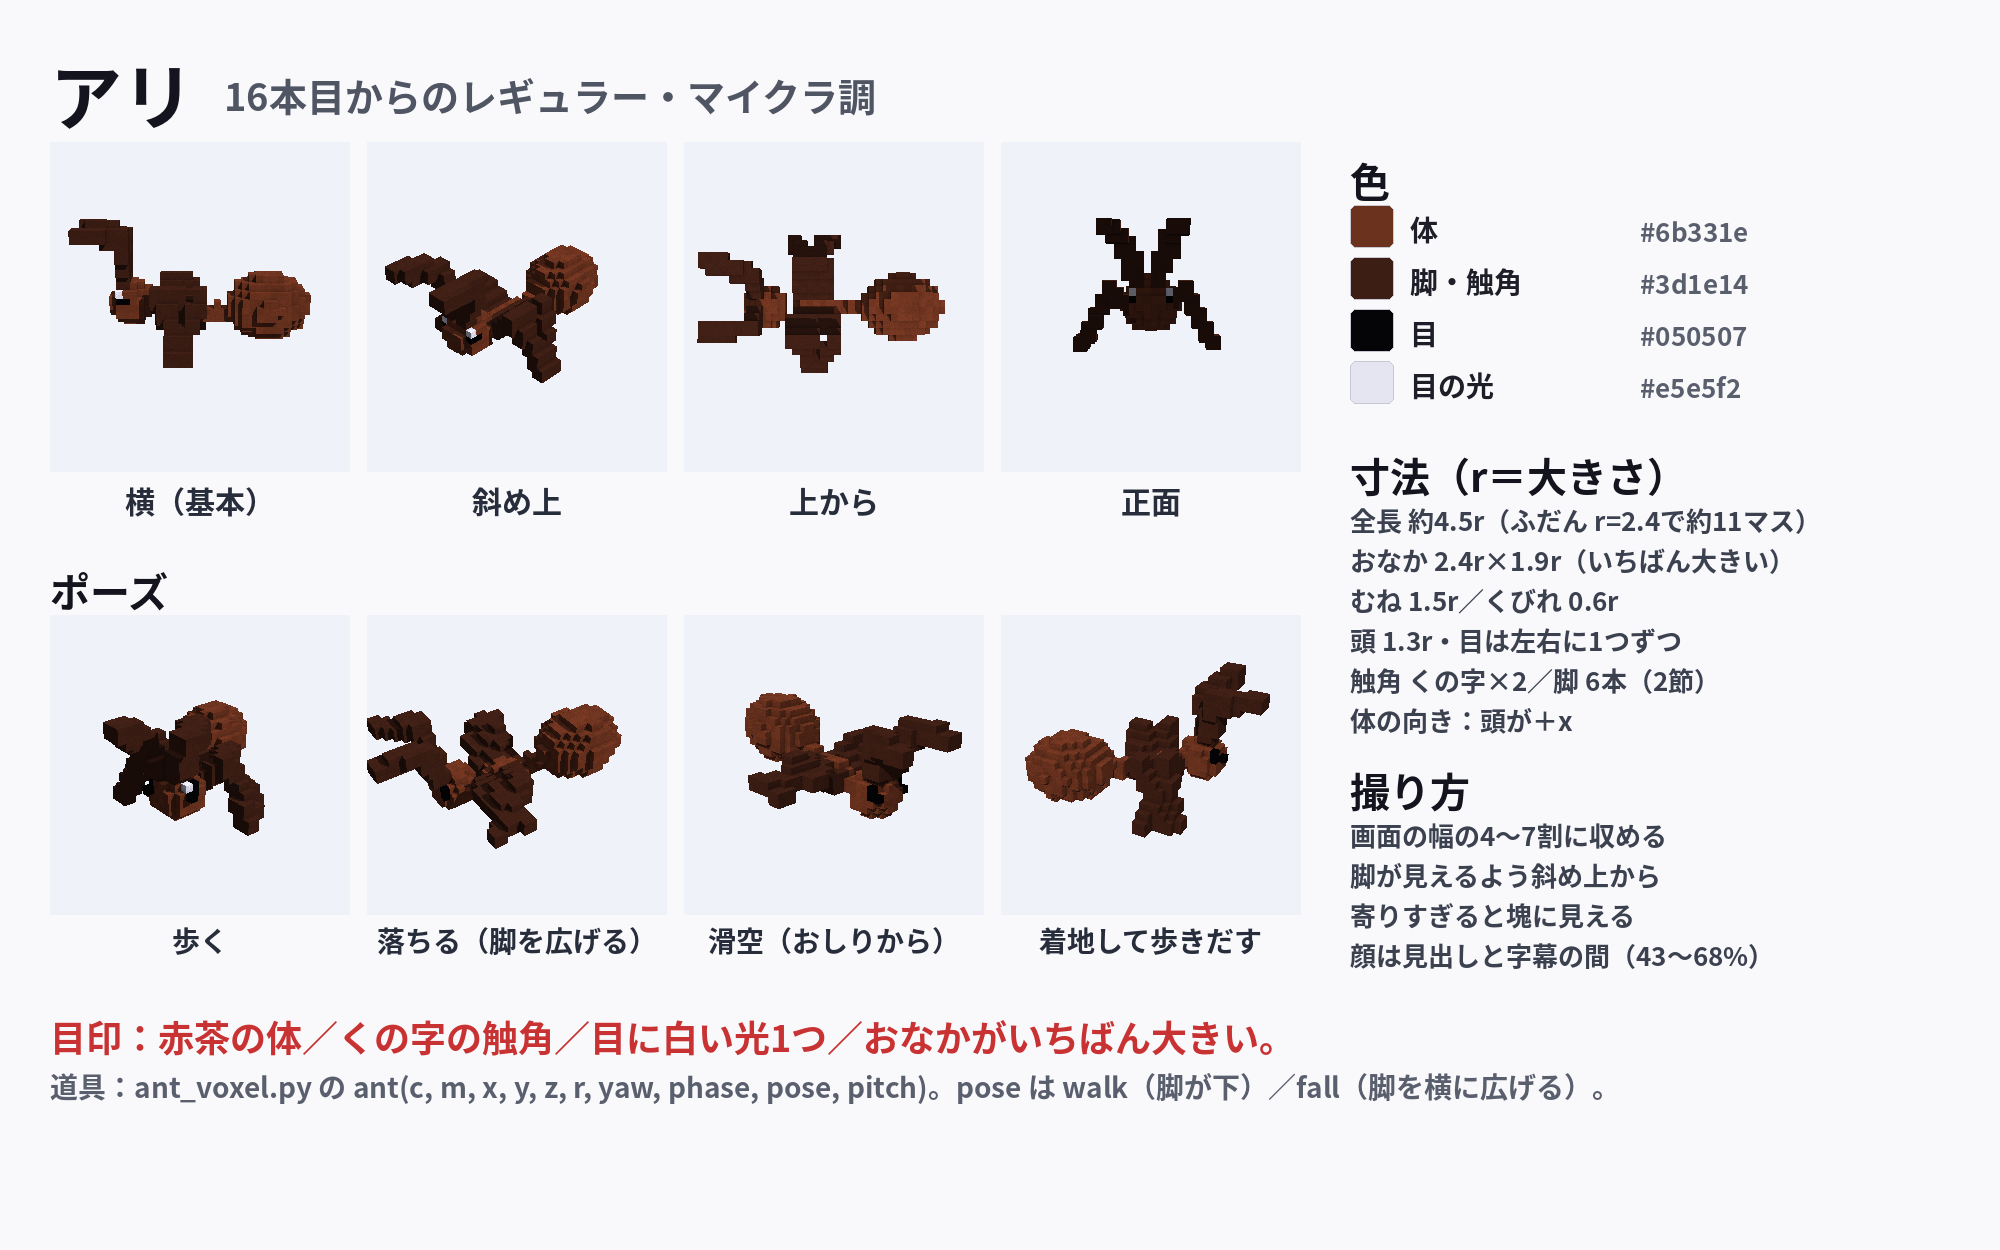
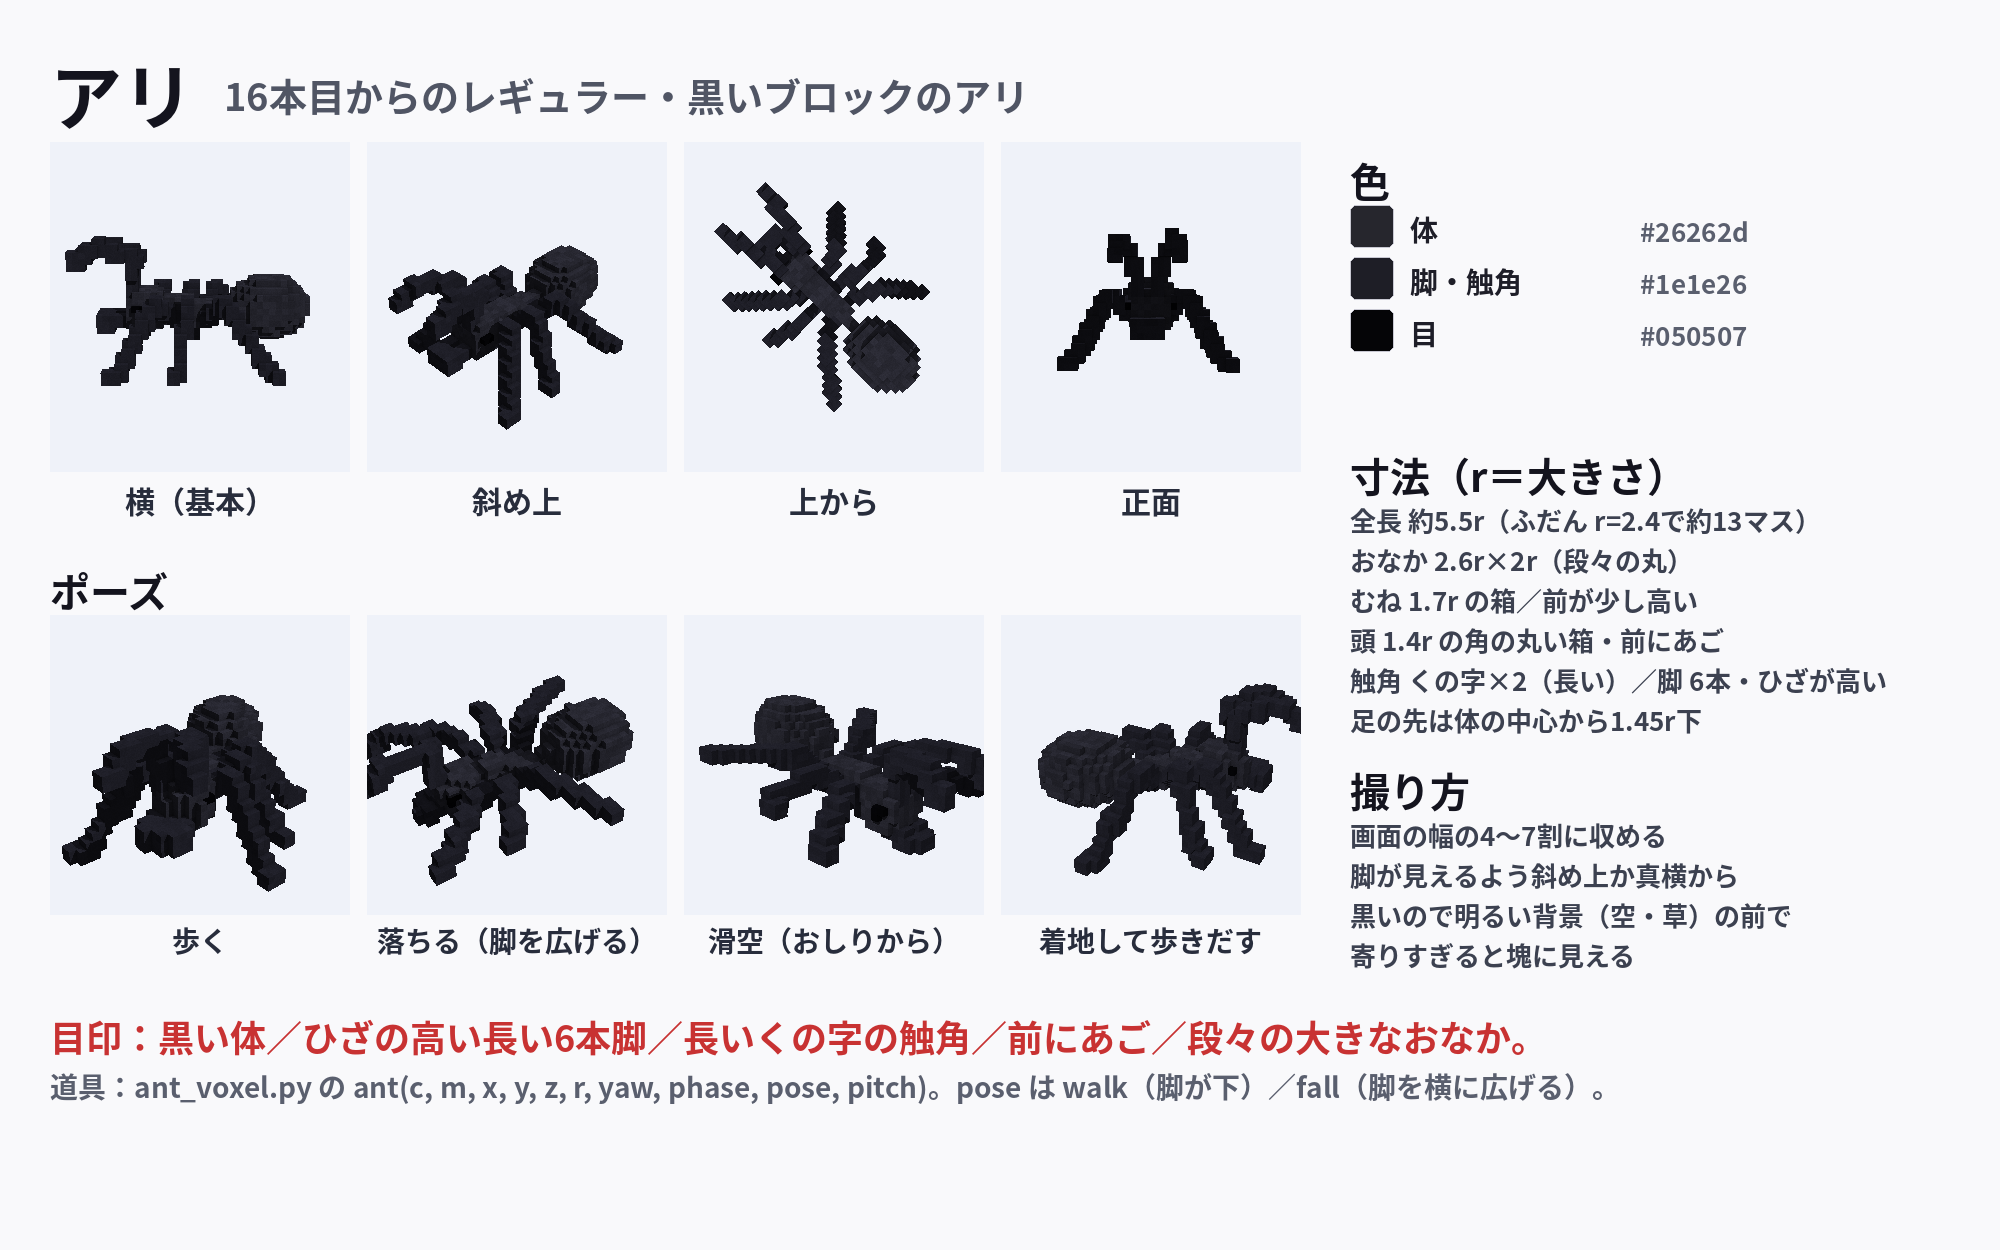
アリのデザインを黒いブロックのアリ（ゆうきの参考画像）に変更
Claude-Session: https://claude.ai/code/session_01CbnLWF7WosX2KU9zsW2tgh

diff --git a/moshimo_tools/ant_voxel.py b/moshimo_tools/ant_voxel.py
@@ -15,64 +15,70 @@ W, H, FPS, RS = 1080, 1920, 30, 3
 CLIPS = [4.4, 4.4, 5.6, 8.4, 5.7, 5.3, 6.7, 5.1]
 GY = SV.GY
 lerp, snap, ground = C2.lerp, C2.snap, C2.ground
-BODY = (0.42, 0.2, 0.12)      # アリの体（赤茶）
-LEG = (0.24, 0.12, 0.08)
+BODY = (0.15, 0.15, 0.18)     # アリの体（黒・少し青みのグレー）
+LEG = (0.12, 0.12, 0.15)
+EYE = (0.02, 0.02, 0.03)
+FOOT = 1.45                   # 足の先は体の中心から 1.45r 下（ひざが高い）
 
 
-def _set(c, m, X, Y, Z, col, var=0.06):
+def _set(c, m, X, Y, Z, col, var=0.12):
     ok = (X >= 0) & (Y >= 0) & (Z >= 0) & (X < c.shape[0]) & (Y < c.shape[1]) & (Z < c.shape[2])
     X, Y, Z = X[ok], Y[ok], Z[ok]
     c[X, Y, Z] = (C(*col) * (1 - var + 2 * var * np.random.default_rng(len(X)).random((len(X), 1)))).astype(f32); m[X, Y, Z] = 1
 
 
 def ant(c, m, cx, cy, cz, r, yaw=0.0, phase=0.0, pose="walk", pitch=0.0):
-    """アリ。体の向きはローカルのx（頭が+x）。r=大きさ（全長は約4.5r）。pose: walk（脚が下）/ fall（脚を横に広げる）"""
+    """黒いブロックのアリ（参考画像の形）。頭が+x。cy は体の中心（足の先は cy-1.45r）。
+    pose: walk（6本脚で立つ）/ fall（脚を横に広げる）"""
     ca, sa = math.cos(yaw), math.sin(yaw)
     cp, sp = math.cos(pitch), math.sin(pitch)
 
-    def W_(lx, ly, lz):            # ローカル→ワールド（pitch はxy面の傾き、yaw はy軸まわり）
+    def W_(lx, ly, lz):
         lx, ly = lx * cp - ly * sp, lx * sp + ly * cp
         return cx + lx * ca - lz * sa, cy + ly, cz + lx * sa + lz * ca
 
-    def ell(ox, oy, oz, rx, ry, rz, col):
-        R_ = max(rx, ry, rz) + 1
+    def blob(ox, oy, oz, rx, ry, rz, col, pw=2.0):
+        """pw=2 で楕円、4 で角の丸い箱"""
+        R_ = max(rx, ry, rz) * 1.2 + 1
         px, py, pz = W_(ox, oy, oz)
         xs, ys, zs = np.meshgrid(np.arange(int(px - R_), int(px + R_) + 2), np.arange(int(py - R_), int(py + R_) + 2),
                                  np.arange(int(pz - R_), int(pz + R_) + 2), indexing='ij')
         dx, dy, dz = xs + 0.5 - px, ys + 0.5 - py, zs + 0.5 - pz
         lx = dx * ca + dz * sa; lz = -dx * sa + dz * ca; ly = dy
         lx, ly = lx * cp + ly * sp, -lx * sp + ly * cp
-        ins = (lx / rx) ** 2 + (ly / ry) ** 2 + (lz / rz) ** 2 < 1
+        ins = np.abs(lx / rx) ** pw + np.abs(ly / ry) ** pw + np.abs(lz / rz) ** pw < 1
         _set(c, m, xs[ins], ys[ins], zs[ins], col)
 
-    def line(p0, p1, col, th):
-        n = int(max(2, math.dist(p0, p1) * 2))
-        for i in range(n + 1):
-            k = i / n
-            x, y, z = W_(*[a + (b - a) * k for a, b in zip(p0, p1)])
-            h = max(0.5, th / 2)
-            X, Y, Z = np.meshgrid(np.arange(int(x - h + 0.5), int(x + h + 0.5) + 1), np.arange(int(y - h + 0.5), int(y + h + 0.5) + 1),
-                                  np.arange(int(z - h + 0.5), int(z + h + 0.5) + 1), indexing='ij')
-            _set(c, m, X.ravel(), Y.ravel(), Z.ravel(), col, 0.03)
+    def line(pts, col, th):
+        for p0, p1 in zip(pts[:-1], pts[1:]):
+            n = int(max(2, math.dist(p0, p1) * 2))
+            for i in range(n + 1):
+                k = i / n
+                x, y, z = W_(*[a + (b - a) * k for a, b in zip(p0, p1)])
+                h = max(0.5, th / 2)
+                X, Y, Z = np.meshgrid(np.arange(int(x - h + 0.5), int(x + h + 0.5) + 1), np.arange(int(y - h + 0.5), int(y + h + 0.5) + 1),
+                                      np.arange(int(z - h + 0.5), int(z + h + 0.5) + 1), indexing='ij')
+                _set(c, m, X.ravel(), Y.ravel(), Z.ravel(), col, 0.08)
 
-    ell(-2.15 * r, 0.25 * r, 0, 1.2 * r, 0.95 * r, 0.95 * r, BODY)         # おなか
-    ell(-0.7 * r, 0.05 * r, 0, 0.3 * r, 0.32 * r, 0.25 * r, BODY)          # くびれ
-    ell(0.25 * r, 0.05 * r, 0, 0.75 * r, 0.42 * r, 0.42 * r, BODY)         # むね
-    ell(1.75 * r, 0.35 * r, 0, 0.65 * r, 0.62 * r, 0.68 * r, BODY)         # 頭
+    blob(-2.05 * r, 0.25 * r, 0, 1.3 * r, 1.0 * r, 1.05 * r, BODY, 2.2)         # おなか（段々の大きな丸）
+    blob(-0.75 * r, 0.05 * r, 0, 0.3 * r, 0.42 * r, 0.28 * r, BODY, 3.0)         # くびれのこぶ
+    blob(0.35 * r, 0.05 * r, 0, 0.85 * r, 0.42 * r, 0.42 * r, BODY, 4.0)         # むね（箱）
+    blob(0.85 * r, 0.25 * r, 0, 0.4 * r, 0.42 * r, 0.44 * r, BODY, 4.0)          # むねの前の盛り上がり
+    blob(1.95 * r, 0.15 * r, 0, 0.7 * r, 0.62 * r, 0.68 * r, BODY, 4.0)          # 頭（角の丸い箱）
     for s in (-1, 1):
-        ell(2.05 * r, 0.55 * r, s * 0.5 * r, 0.2 * r, 0.22 * r, 0.14 * r, (0.02, 0.02, 0.03))     # 目
-        ell(2.1 * r, 0.68 * r, s * 0.45 * r, 0.07 * r, 0.07 * r, 0.07 * r, (0.9, 0.9, 0.95))     # 目のハイライト
-        wig = 0.25 * r * math.sin(phase * 3 + s)
-        line((1.9 * r, 0.9 * r, s * 0.25 * r), (1.9 * r, 2.0 * r + wig, s * 0.7 * r), LEG, 0.28 * r)   # 触角（くの字）
-        line((1.9 * r, 2.0 * r + wig, s * 0.7 * r), (3.0 * r, 2.3 * r, s * 1.0 * r + wig), LEG, 0.26 * r)
-        for j, ox in enumerate((0.75, 0.3, -0.15)):
-            sw = 0.35 * r * math.sin(phase * 6 + j * 2.1 + (0 if s > 0 else math.pi))
+        blob(2.15 * r, 0.3 * r, s * 0.62 * r, 0.2 * r, 0.18 * r, 0.1 * r, EYE, 4.0)    # 目（小さな四角）
+        line([(2.55 * r, -0.25 * r, s * 0.32 * r), (3.15 * r, -0.4 * r, s * 0.32 * r), (3.25 * r, -0.4 * r, s * 0.05 * r)], LEG, 0.24 * r)  # あご
+        wig = 0.2 * r * math.sin(phase * 3 + s)
+        line([(2.35 * r, 0.65 * r, s * 0.3 * r), (2.2 * r, 1.75 * r, s * 0.45 * r),                               # 触角（くの字・長い）
+              (3.3 * r, 2.05 * r + wig, s * 0.75 * r), (4.0 * r, 1.65 * r + wig, s * 0.95 * r)], LEG, 0.22 * r)
+        for j, (ox, fx, tx) in enumerate(((0.95, 0.5, 1.5), (0.45, 0.0, 0.1), (-0.05, -0.5, -1.7))):
+            sw = 0.3 * r * math.sin(phase * 6 + j * 2.1 + (0 if s > 0 else math.pi))
             if pose == "fall":
-                knee = (ox * r + sw * 0.3, 0.4 * r, s * 1.4 * r); foot = (ox * r + (j - 1) * 0.9 * r, 0.1 * r, s * 2.5 * r)
+                knee = ((ox + fx) * r, 0.45 * r, s * 1.4 * r); foot = ((ox + tx) * r, 0.15 * r, s * 2.9 * r)
             else:
-                knee = (ox * r + sw * 0.5, 0.6 * r, s * 1.1 * r); foot = (ox * r + (j - 1) * 0.8 * r + sw, -1.0 * r, s * 1.9 * r)
-            line((ox * r, 0.0, s * 0.3 * r), knee, LEG, 0.24 * r)
-            line(knee, foot, LEG, 0.2 * r)
+                knee = ((ox + fx) * r + sw * 0.4, 0.55 * r, s * 1.25 * r); foot = ((ox + tx) * r + sw, -FOOT * r, s * 2.3 * r)
+            tip = (foot[0] + 0.25 * r * (1 if tx >= 0 else -1), foot[1], foot[2] + s * 0.25 * r)
+            line([(ox * r, -0.25 * r, s * 0.3 * r), knee, foot, tip], LEG, 0.22 * r)
 
 
 # ---------------------------------------------------------------- 空の場面
@@ -124,7 +130,7 @@ def frame(k, t):
         f = max(0.0, t - tip)
         drop = 6 * f * f if f < 1 else 6 + 12 * (f - 1)        # すぐに一定の遅い速さになる
         ax = 18 + min(t, tip) * 3.0
-        ay = 28.5
+        ay = 25 + 1.45 * 2.4 + 0.3
         k2 = snap(t, tip, 1.6)
         a = 0.9 + 0.7 * k2
         d = 34 + 26 * k2
@@ -140,7 +146,7 @@ def frame(k, t):
             return out
         u = (t - T * 0.58) / (T * 0.42)
         S, c, m = ground()
-        ant(c, m, 40, GY + 2.8, 52, 2.4, yaw=-1.9, phase=t * 3, pose="walk")
+        ant(c, m, 40, GY + 1.45 * 2.4 + 0.2, 52, 2.4, yaw=-1.9, phase=t * 3, pose="walk")
         z = ease(u)
         cam = lerp((40 - 8, GY + 14, 52 - 30), (40 - 12, GY + 18, 52 - 40), z); tgt = (40, GY + 3, 52)
         img, depth = render(S, c, m, cam, tgt, 44, w, h)
@@ -184,10 +190,10 @@ def frame(k, t):
         S, c, m = ground()
         L = 1.1
         if t < L:
-            ay = GY + 2.8 + 24 * (1 - t / L)
+            ay = GY + 3.7 + 24 * (1 - t / L)
         else:
             u = t - L
-            ay = GY + 2.8 + max(0, 3 * math.sin(min(u, 0.35) / 0.35 * math.pi)) if u < 0.35 else GY + 2.8
+            ay = GY + 3.7 + max(0, 3 * math.sin(min(u, 0.35) / 0.35 * math.pi)) if u < 0.35 else GY + 3.7
         walk = max(0, t - L - 0.6)
         ax = 40 - 4.5 * walk
         ant(c, m, ax, ay, 52, 2.4, yaw=math.pi if t > L + 0.4 else 0.4 * t, phase=t * (6 if walk > 0 else 2), pose="walk" if t > L else "fall")
@@ -229,13 +235,13 @@ def frame(k, t):
 # ---------------------------------------------------------------- デザイン定義シート
 def sheet(out="sheet_ant.png"):
     from kaguya2_voxel import studio, sheet_base, hexs, F
-    im, d = sheet_base("アリ", "16本目からのレギュラー・マイクラ調")
+    im, d = sheet_base("アリ", "16本目からのレギュラー・黒いブロックのアリ")
     cx, cy, cz, r = 55, 10, 55, 5.0
     draw = lambda pose="walk", yaw=0.0, pitch=0.0, ph=0.6: (lambda c, m: ant(c, m, cx, cy, cz, r, yaw=yaw, phase=ph, pose=pose, pitch=pitch))
-    tgt = (cx - 1, cy + 1, cz)
-    views = [("横（基本）", (cx - 1, cy + 30, cz - 115)), ("斜め上", (cx + 70, cy + 70, cz - 70)), ("上から", (cx - 1, cy + 120, cz - 2)), ("正面", (cx + 120, cy + 6, cz))]
+    tgt = (cx + 1, cy + 1, cz)
+    views = [("横（基本）", (cx + 1, cy + 30, cz - 115)), ("斜め上", (cx + 70, cy + 70, cz - 70)), ("上から", (cx - 1, cy + 120, cz - 2)), ("正面", (cx + 120, cy + 6, cz))]
     for i_, (nm, cam) in enumerate(views):
-        v = studio(draw(), cam, tgt, 23, 300, 330, (0.94, 0.95, 0.98))
+        v = studio(draw(), cam, tgt, 26, 300, 330, (0.94, 0.95, 0.98))
         x = 50 + i_ * 317; im.paste(v, (x, 142))
         d.text((x + 150, 500), nm, font=F(30), fill=(40, 45, 60), anchor="mm")
     d.text((50, 560), "ポーズ", font=F(40), fill=(20, 20, 30))
@@ -248,19 +254,19 @@ def sheet(out="sheet_ant.png"):
         x = 50 + i_ * 317; im.paste(v, (x, 615))
         d.text((x + 150, 940), nm, font=F(28), fill=(40, 45, 60), anchor="mm")
     d.text((1350, 150), "色", font=F(40), fill=(20, 20, 30))
-    cols = {"体": BODY, "脚・触角": LEG, "目": (0.02, 0.02, 0.03), "目の光": (0.9, 0.9, 0.95)}
+    cols = {"体": BODY, "脚・触角": LEG, "目": EYE}
     for i_, (nm, cc) in enumerate(cols.items()):
         y = 205 + i_ * 52
         d.rounded_rectangle([1350, y, 1393, y + 42], 6, fill=tuple(int(min(1, v) * 255) for v in cc), outline=(200, 200, 210))
         d.text((1410, y + 3), nm, font=F(28), fill=(30, 30, 40)); d.text((1640, y + 6), hexs(cc), font=F(26), fill=(90, 95, 110))
     d.text((1350, 445), "寸法（r＝大きさ）", font=F(40), fill=(20, 20, 30))
-    for i_, s_ in enumerate(["全長 約4.5r（ふだん r=2.4で約11マス）", "おなか 2.4r×1.9r（いちばん大きい）", "むね 1.5r／くびれ 0.6r", "頭 1.3r・目は左右に1つずつ",
-                             "触角 くの字×2／脚 6本（2節）", "体の向き：頭が＋x"]):
+    for i_, s_ in enumerate(["全長 約5.5r（ふだん r=2.4で約13マス）", "おなか 2.6r×2r（段々の丸）", "むね 1.7r の箱／前が少し高い", "頭 1.4r の角の丸い箱・前にあご",
+                             "触角 くの字×2（長い）／脚 6本・ひざが高い", "足の先は体の中心から1.45r下"]):
         d.text((1350, 500 + i_ * 40), s_, font=F(26), fill=(60, 65, 80))
     d.text((1350, 760), "撮り方", font=F(40), fill=(20, 20, 30))
-    for i_, s_ in enumerate(["画面の幅の4〜7割に収める", "脚が見えるよう斜め上から", "寄りすぎると塊に見える", "顔は見出しと字幕の間（43〜68%）"]):
+    for i_, s_ in enumerate(["画面の幅の4〜7割に収める", "脚が見えるよう斜め上か真横から", "黒いので明るい背景（空・草）の前で", "寄りすぎると塊に見える"]):
         d.text((1350, 815 + i_ * 40), s_, font=F(26), fill=(60, 65, 80))
-    d.text((50, 1010), "目印：赤茶の体／くの字の触角／目に白い光1つ／おなかがいちばん大きい。", font=F(36), fill=(200, 50, 50))
+    d.text((50, 1010), "目印：黒い体／ひざの高い長い6本脚／長いくの字の触角／前にあご／段々の大きなおなか。", font=F(36), fill=(200, 50, 50))
     d.text((50, 1065), "道具：ant_voxel.py の ant(c, m, x, y, z, r, yaw, phase, pose, pitch)。pose は walk（脚が下）／fall（脚を横に広げる）。", font=F(28), fill=(90, 95, 110))
     im.save(out)
 
